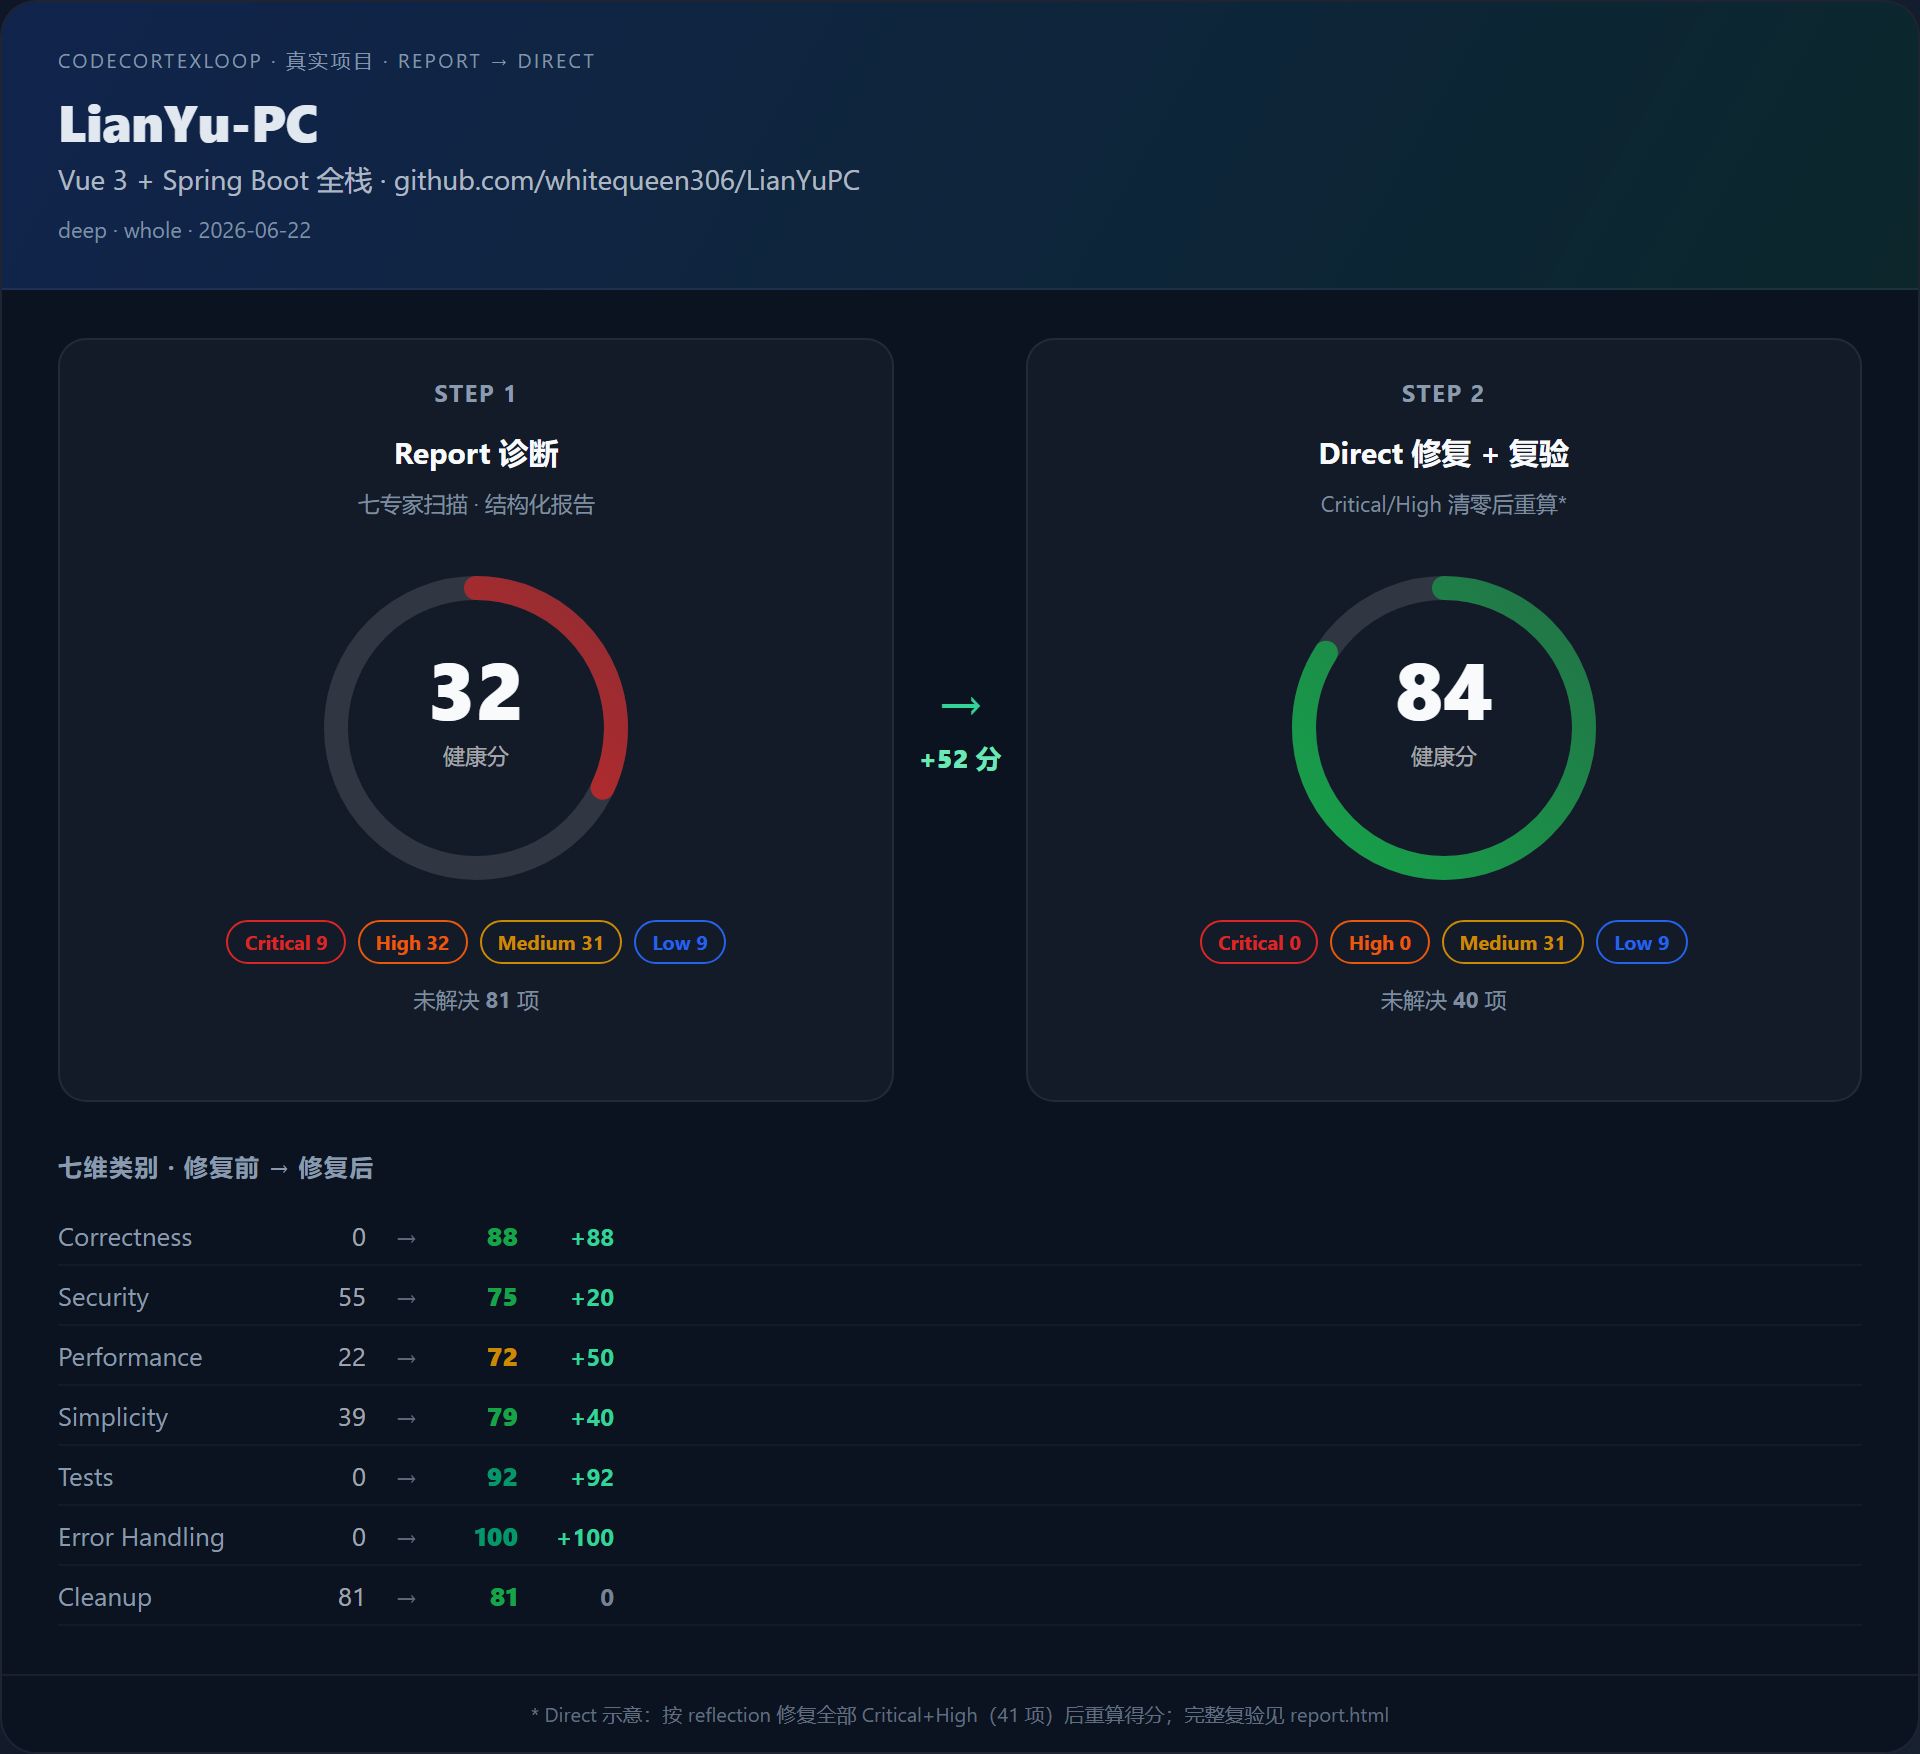
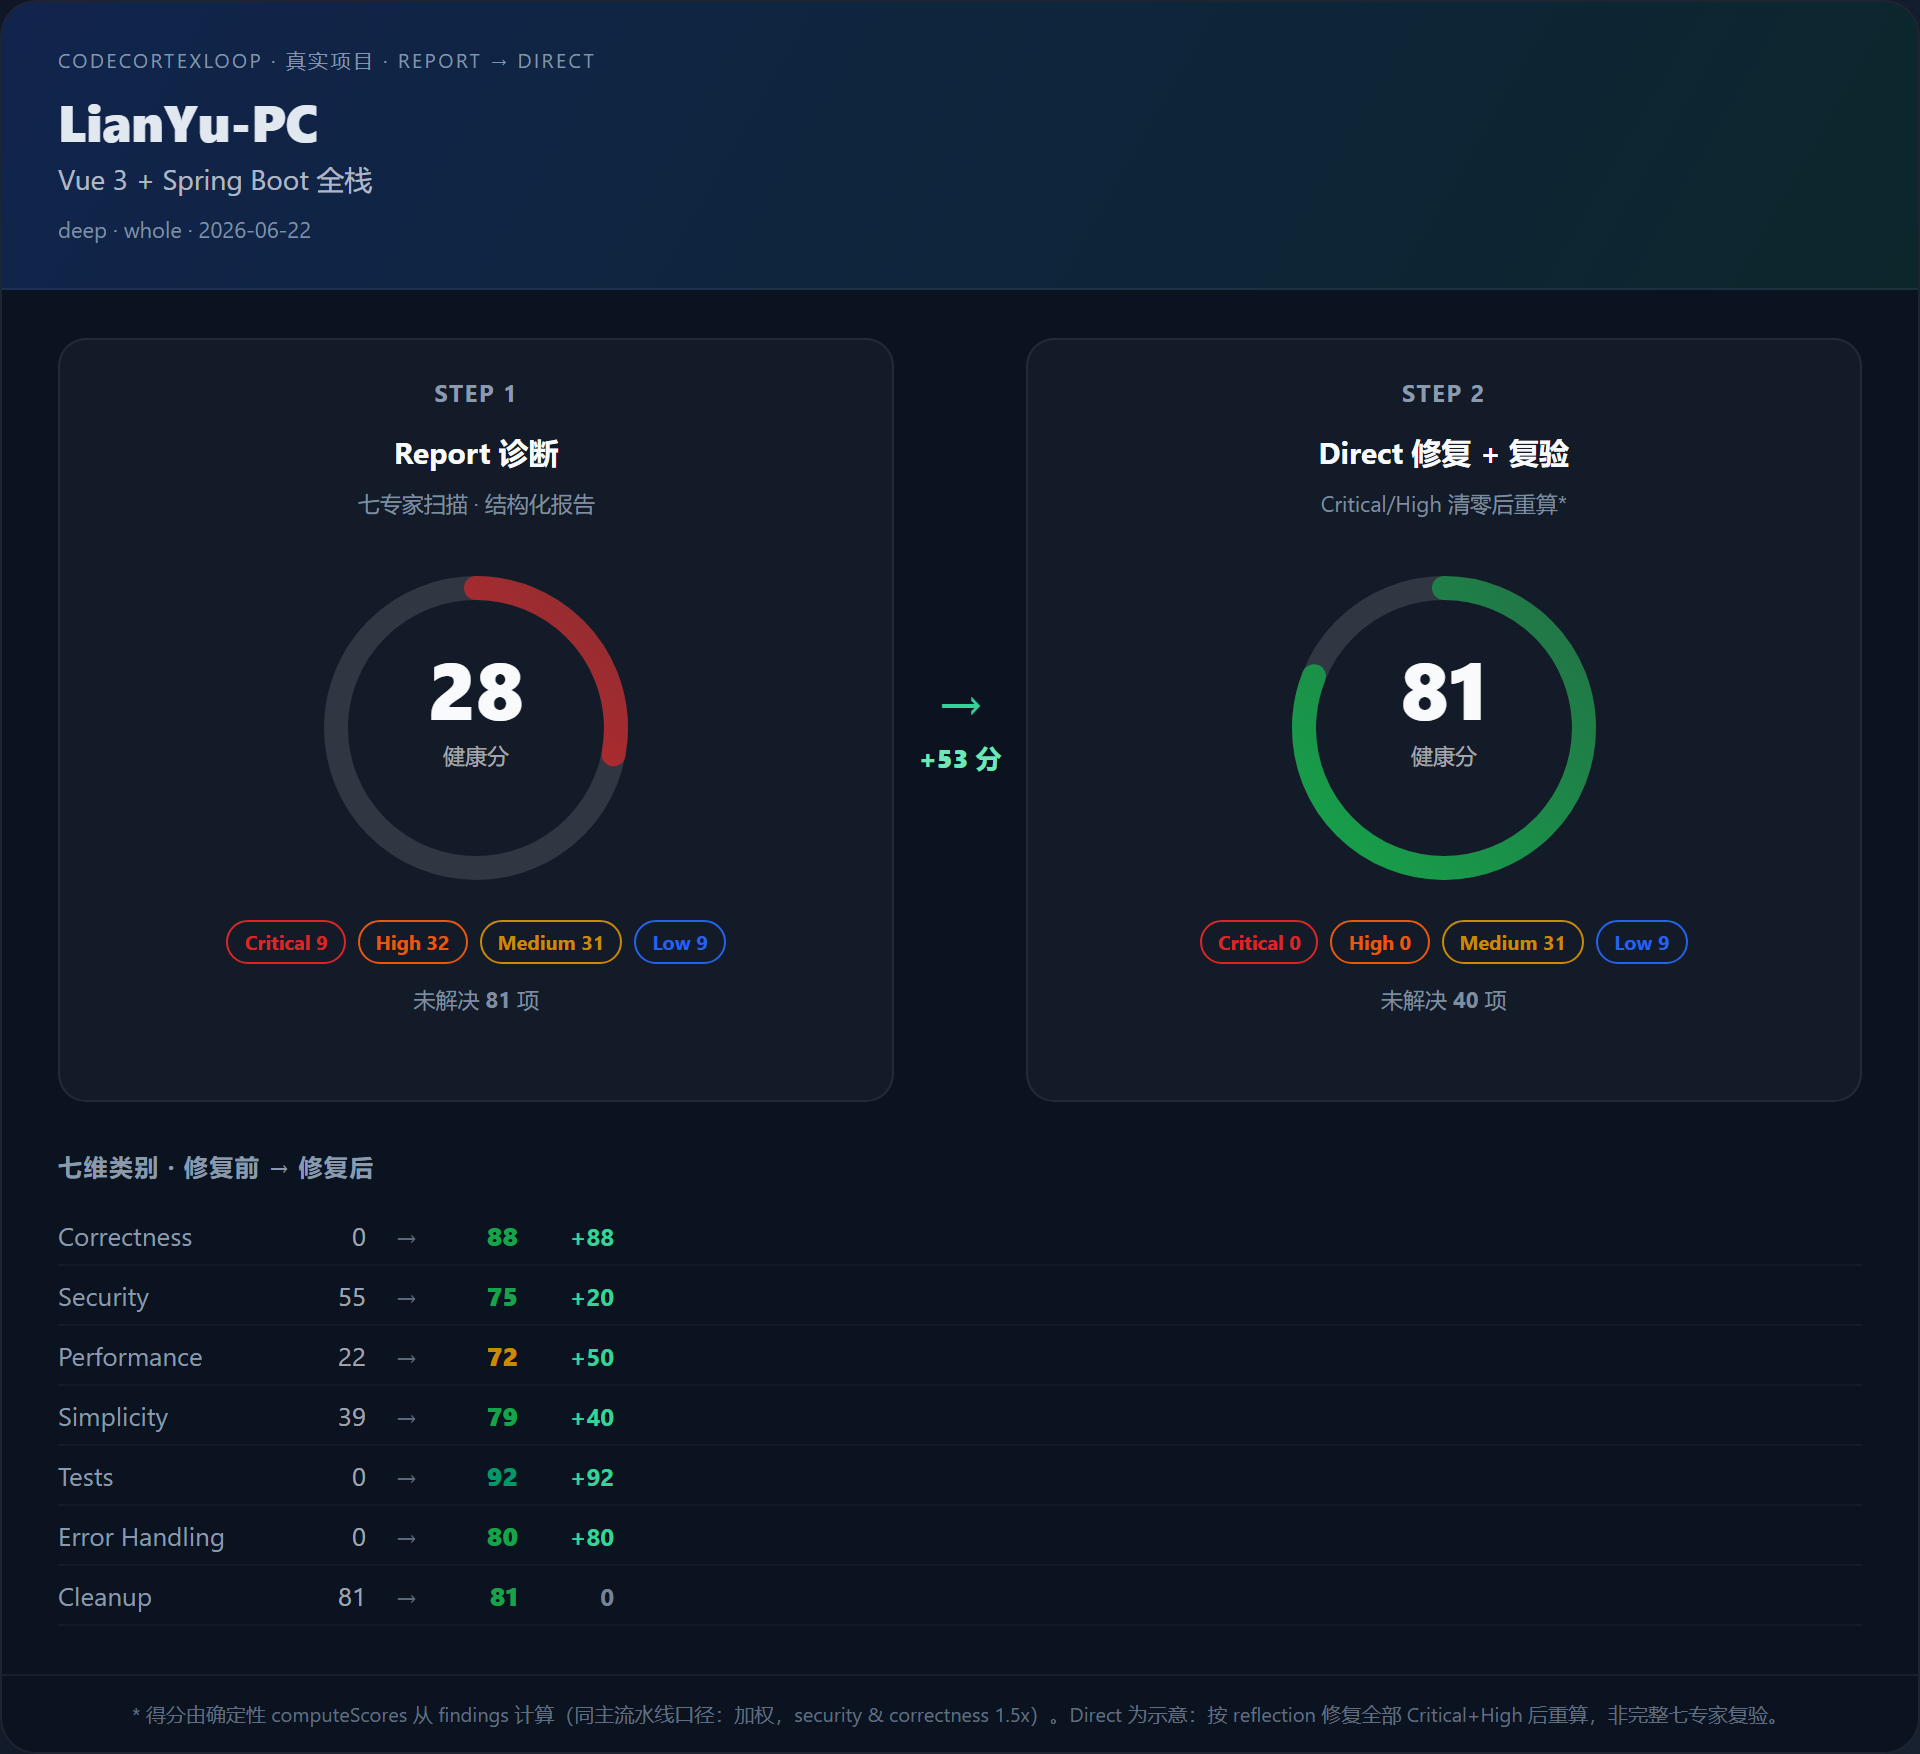
docs: sync LianYu-PC score 32->28 and clean stale example refs
Follow-up to c92058e (deterministic scoring). The LianYu-PC headline
recomputed 32 -> 28; update every doc/artifact still citing 32.

- README/LAUNCH(-zh)/examples LianYu README/00-summary: 32 -> 28
  (per-category breakdown already matched; only the LLM-judged overall
  was wrong)
- README case-study footnote: note scores are deterministic computeScores
- tests.yml: drop stale "57 cases" comment (now 112)
- examples/lianyu-pc/.../report.json: add version "2.2" (was missing ->
  ci-gate/validateReport rejected it)
- docs/assets/lianyu-pc-showcase.png: regenerate from new showcase (28)
- CHANGELOG: entry under [Unreleased] for the deterministic scoring change

diff --git a/CHANGELOG.md b/CHANGELOG.md
@@ -19,6 +19,13 @@ All notable changes to CodeCortexLoop are documented here.
 - Optional `sourceLocation` (file:line) and `sourceContext` (symbol/snippet) on `deferToLaterPasses[].defer` in `pass-handoff.schema.json`. `collectOrphanDefers` passes them through to orphan entries; `aggregate-findings.mjs` uses `sourceLocation` to stamp an `orphanId` onto the matching finding's `provenance` so Step 3.5 recycle additions stay traceable end-to-end. Backward compatible — defers without these fields still work.
 - expert-core SKILL.md + passes/README.md document the new optional fields and recommend their use
 
+### Changed (deterministic health score)
+- **Health score is now deterministic.** New `computeScores(findings)` in `shared.mjs` (weighted average: security & correctness 1.5x, others 1x; per-category floor 0) replaces the LLM-judged overall. New `scripts/compute-scores.mjs` writes `scores.before` / `.after` (tagged `computedBy`) and the orchestrator (Step 4/5 in `commands/cortexloop.md`) now runs it instead of judging; `make-showcase-dashboard.mjs` uses the same function for before & after. Supersedes the three divergent expressions (rules spec weighted / showcase plain-mean / LLM-judged) so the headline number is reproducible and auditable.
+- `normalizeCategory` (kebab/snake → camelCase) — fixes a latent bug where findings with `category: "error-handling"` were silently dropped from scoring (15 such findings in the LianYu-PC report).
+- `getCategoryScores` reads the new nested `scores.before/after.categories` shape (and legacy flat) so `make-dashboard` / `pr-comment` / `record-history` keep rendering category bars.
+- LianYu-PC Report score recomputes 32 → 28 (per-category breakdown unchanged — the LLM got the categories right, the overall aggregation wrong).
+- Tests 92 → 112 (`computeScores`, `normalizeCategory`, `getCategoryScores` nested-shape, `compute-scores` CLI subprocess).
+
 ## [2.4.0] - 2026-06-25
 
 ### Added

diff --git a/docs/LAUNCH-zh.md b/docs/LAUNCH-zh.md
@@ -32,7 +32,7 @@ python scripts/capture-showcase-screenshot.py
 4. **描述里：**
    - 拖入 `docs/assets/cortexloop-demo.gif`（若有）
    - 拖入 `docs/assets/lianyu-pc-showcase.png` 或 report.html 截图
-   - 写 2–3 句：LianYu-PC 整库 Report **32 分**，81 条 finding，典型问题含验证码泄露、SSE 静默失败
+   - 写 2–3 句：LianYu-PC 整库 Report **28 分**，81 条 finding，典型问题含验证码泄露、SSE 静默失败
 5. 发布
 
 ---
@@ -52,7 +52,7 @@ python scripts/capture-showcase-screenshot.py
 
 **不是给所有人用的** —— 适合已经习惯 Cursor Agent、想要结构化审查而不是随口「帮我 review」的人。小改动先试 `/cortexloop-lite`。
 
-在 **LianYu-PC**（Vue 3 + Spring Boot 全栈）上 `/cortexloop-deep` Report：**健康分 32**，81 条 finding。
+在 **LianYu-PC**（Vue 3 + Spring Boot 全栈）上 `/cortexloop-deep` Report：**健康分 28**，81 条 finding。
 
 - 仓库：https://github.com/whitequeen306/code-cortex-loop
 - 安装：`curl -fsSL https://raw.githubusercontent.com/whitequeen306/code-cortex-loop/master/scripts/install-remote.sh | bash -s cursor`
@@ -101,7 +101,7 @@ Case study: https://github.com/whitequeen306/code-cortex-loop/tree/main/examples
 **帖 2（case study）：**
 
 > 在 LianYu-PC（Vue + Spring Boot）上跑 `/cortexloop-deep` Report：
-> • 健康分 32，81 条 finding
+> • 健康分 28，81 条 finding
 > • 验证码泄露、SSE 静默失败、核心路径零测试
 >
 > 预生成看板：examples/lianyu-pc/docs/cortexloop/report.html

diff --git a/README.md b/README.md
@@ -417,10 +417,10 @@ jobs:
 
 | 阶段 | 健康分 | Critical / High / Medium / Low | 说明 |
 |------|--------|--------------------------------|------|
-| **Report 诊断** | **32** | 9 / 32 / 31 / 9 | 真实扫描产物 |
+| **Report 诊断** | **28** | 9 / 32 / 31 / 9 | 真实扫描产物 |
 | **Direct 示意*** | **84** | 0 / 0 / 31 / 9 | 按 reflection 清零 Critical+High（41 项）后重算 |
 
-\* Direct 右侧为**示意得分**（非完整七专家复验）；LianYu-PC 原项目有 `08-reflection.md` 记录修复，完整复验待重跑。
+\* 两侧分数均由确定性 `computeScores` 计算（加权口径，security & correctness 1.5x）；Direct 右侧为**示意**——按 reflection 模拟修复后重算，非完整七专家复验。LianYu-PC 原项目有 `08-reflection.md` 记录修复，完整复验待重跑。
 
 **典型发现：** 验证码表达式泄露 · SSE 错误仍持久化 · 前端轮询静默失败 · 认证/SSE 核心路径零测试
 

diff --git a/docs/LAUNCH.md b/docs/LAUNCH.md
@@ -31,7 +31,7 @@ I built a post-coding harness for Cursor (also Claude Code / OpenCode; other too
 
 **Not for everyone** — best if you already live in Cursor Agent mode. For small diffs try `/cortexloop-lite`.
 
-Real run on **LianYu-PC** (Vue 3 + Spring Boot full stack, `/cortexloop-deep` Report): health score **32**, 81 findings.
+Real run on **LianYu-PC** (Vue 3 + Spring Boot full stack, `/cortexloop-deep` Report): health score **28**, 81 findings.
 
 Repo: https://github.com/whitequeen306/code-cortex-loop
 
@@ -63,7 +63,7 @@ Try `/cortexloop-lite` for a minimal 3-pass path.
 
 **Post 1:** GIF or LianYu showcase + one-liner + github link
 
-**Post 2:** LianYu-PC case — score 32, 81 findings, link to `examples/lianyu-pc/docs/cortexloop/report.html`
+**Post 2:** LianYu-PC case — score 28, 81 findings, link to `examples/lianyu-pc/docs/cortexloop/report.html`
 
 ---
 

diff --git a/examples/lianyu-pc/README.md b/examples/lianyu-pc/README.md
@@ -11,7 +11,7 @@
 
 | 阶段 | 健康分 | Critical | High | Medium | Low | 合计 |
 |------|--------|----------|------|--------|-----|------|
-| **Report 诊断**（真实） | **32** | 9 | 32 | 31 | 9 | 81 |
+| **Report 诊断**（真实） | **28** | 9 | 32 | 31 | 9 | 81 |
 | **Direct 示意*** | **84** | 0 | 0 | 31 | 9 | 40 |
 
 \* Direct 示意：按 `08-reflection.md` 修复全部 Critical+High（41 项）后，用同一扣分模型重算；**非完整七专家复验**。

diff --git a/examples/lianyu-pc/docs/cortexloop/00-summary.md b/examples/lianyu-pc/docs/cortexloop/00-summary.md
@@ -9,7 +9,7 @@
 
 | Category | Score |
 |----------|-------|
-| **Overall** | **32** |
+| **Overall** | **28** |
 | Correctness | 0 |
 | Security | 55 |
 | Error handling | 0 |